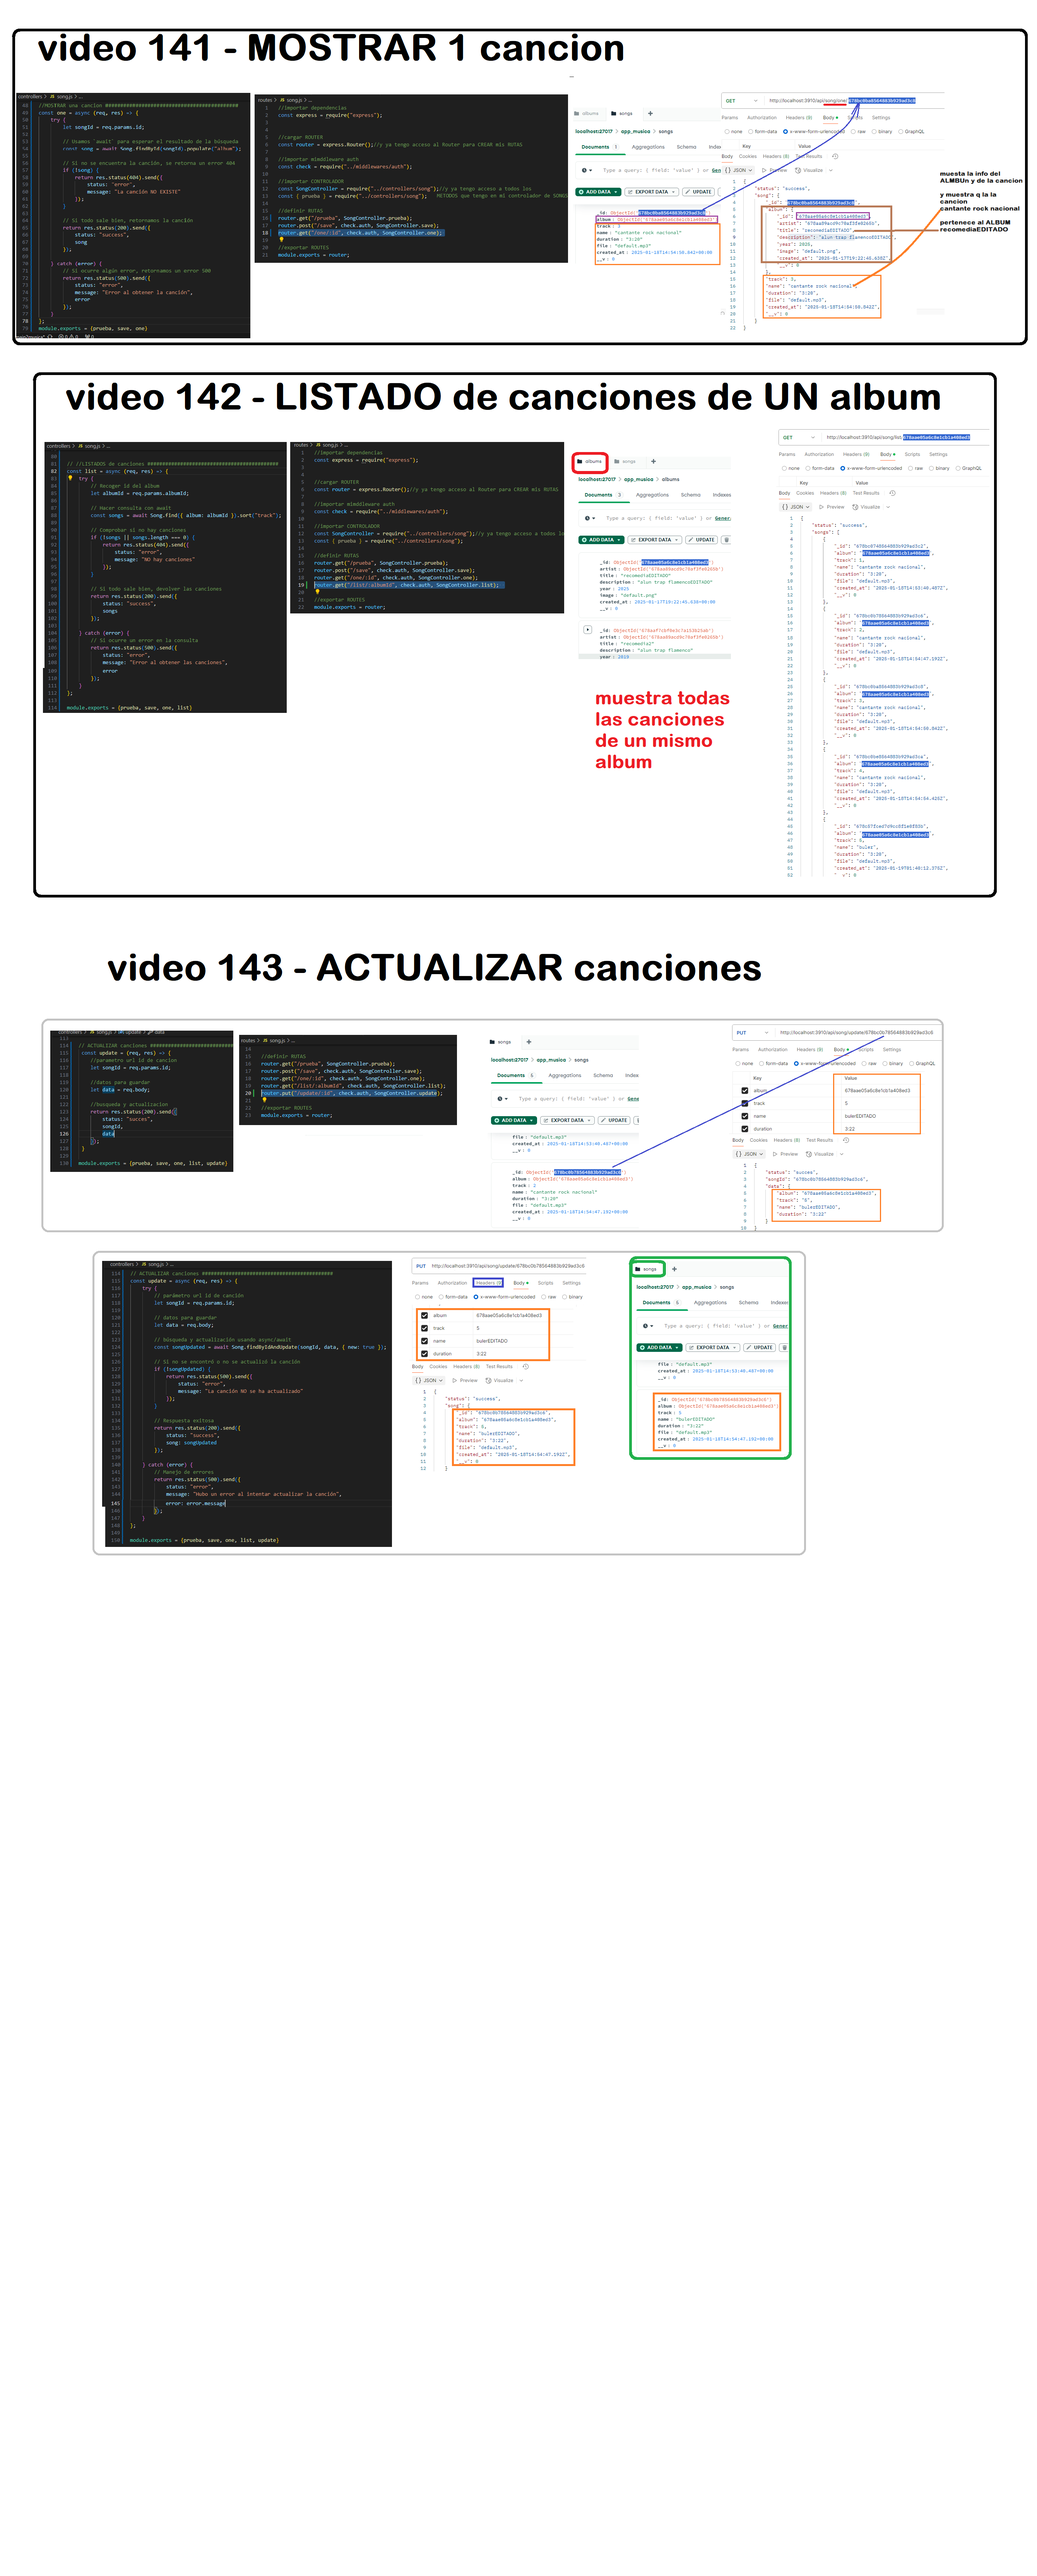
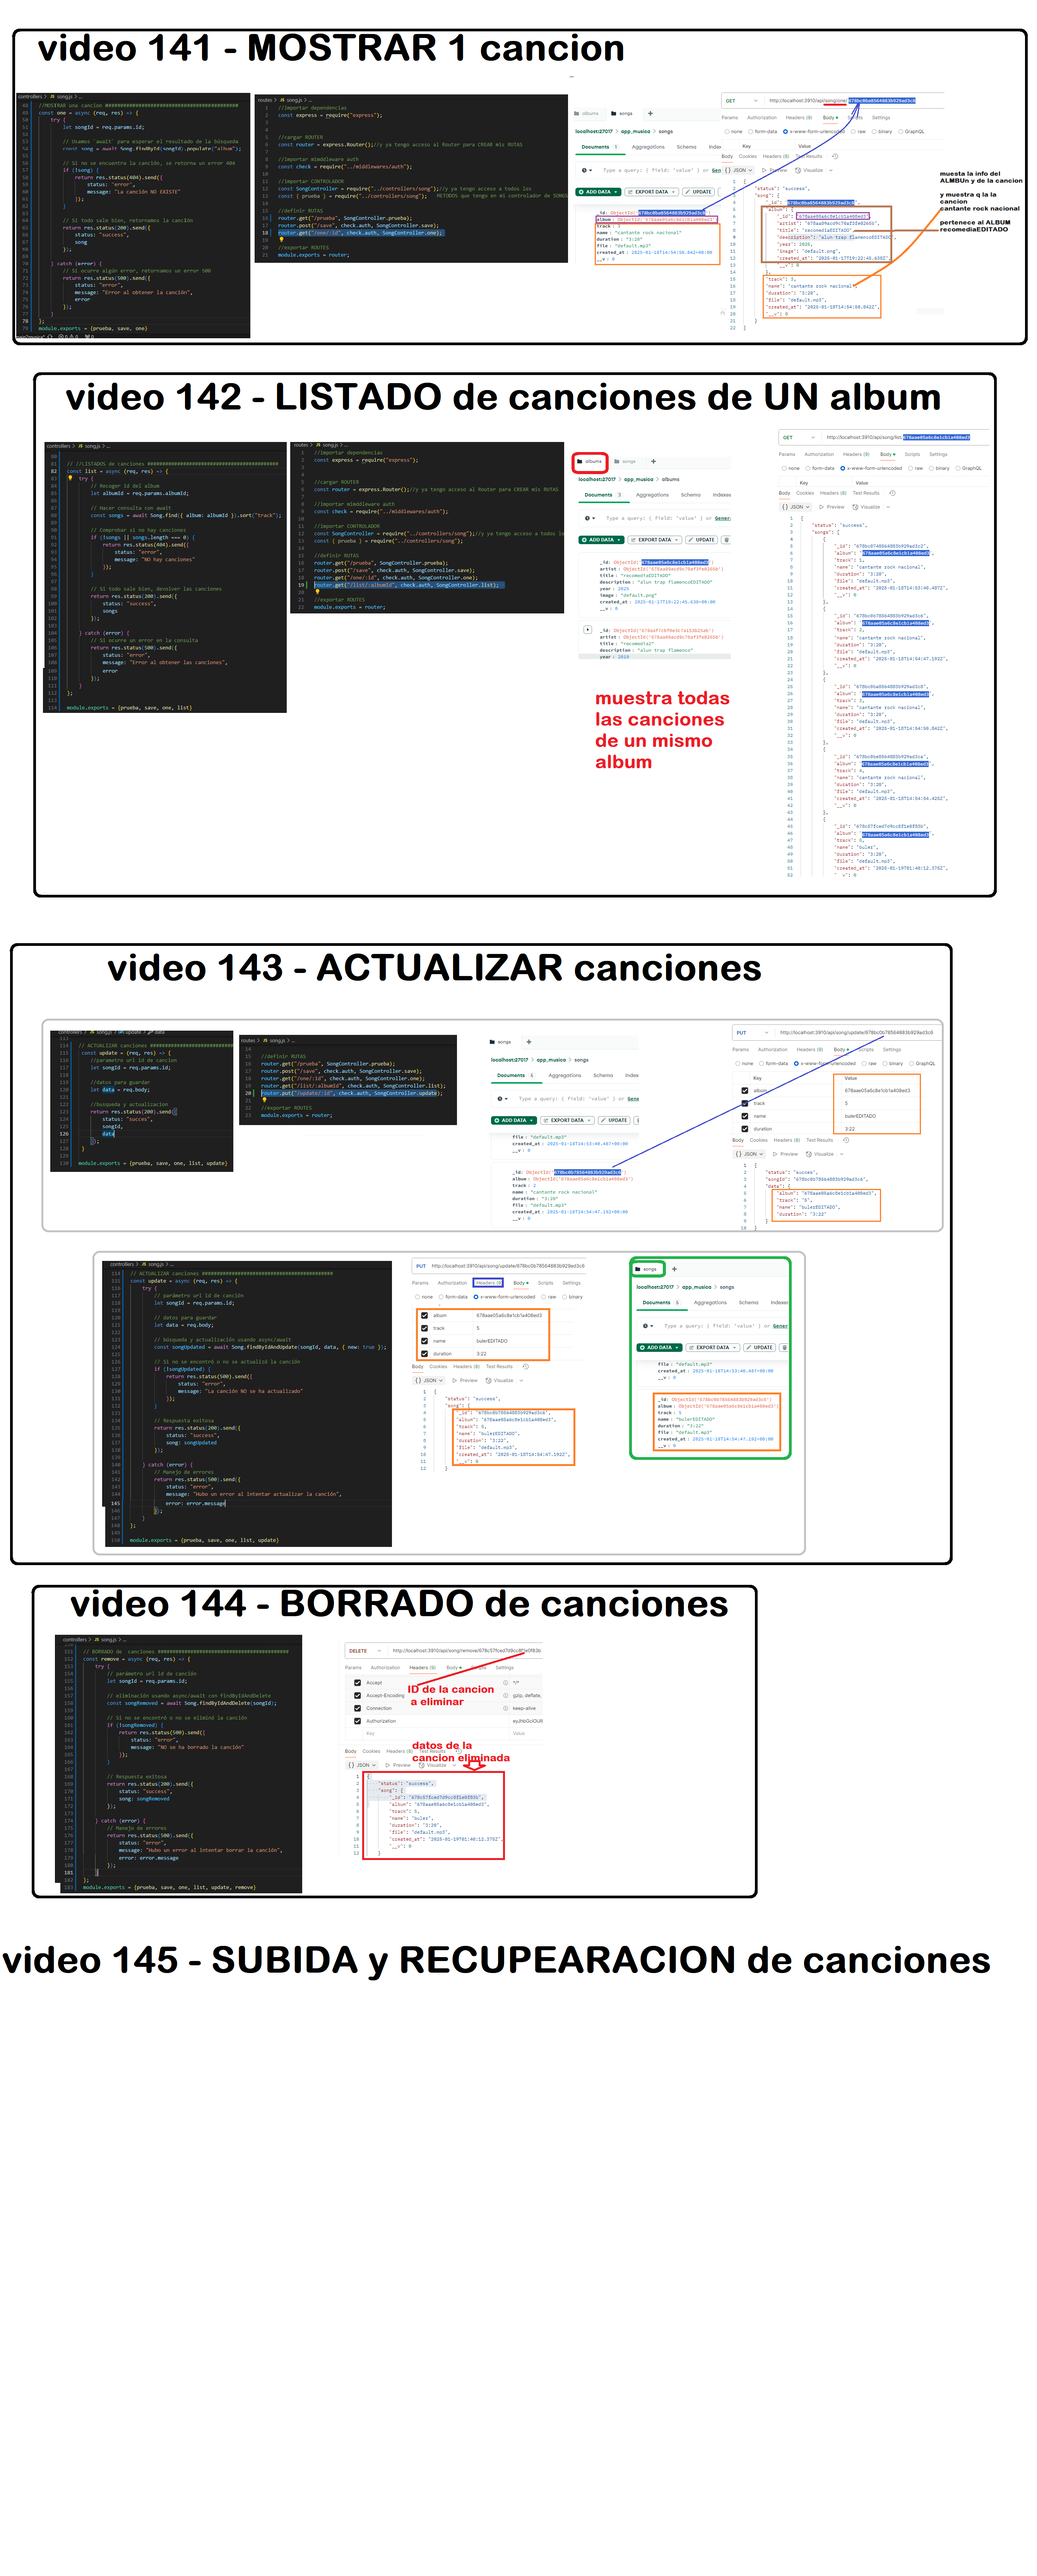
37° V.144 BORRADO de canciones

Changed region(s): [[0.0, 0.5938, 0.9601, 0.7812]]

diff --git a/controllers/song.js b/controllers/song.js
@@ -147,4 +147,37 @@ const update = async (req, res) => {
     }
 };
 
-module.exports = {prueba, save, one, list, update}
+
+// BORRADO de  canciones ############################################
+const remove = async (req, res) => {
+    try {
+        // parámetro url id de canción
+        let songId = req.params.id;
+
+        // eliminación usando async/await con findByIdAndDelete
+        const songRemoved = await Song.findByIdAndDelete(songId);
+
+        // Si no se encontró o no se eliminó la canción
+        if (!songRemoved) {
+            return res.status(500).send({
+                status: "error",
+                message: "NO se ha borrado la canción"
+            });
+        }
+
+        // Respuesta exitosa
+        return res.status(200).send({
+            status: "success",
+            song: songRemoved
+        });
+
+    } catch (error) {
+        // Manejo de errores
+        return res.status(500).send({
+            status: "error",
+            message: "Hubo un error al intentar borrar la canción",
+            error: error.message
+        });
+    }
+};
+module.exports = {prueba, save, one, list, update, remove}

diff --git a/routes/song.js b/routes/song.js
@@ -18,6 +18,7 @@ router.post("/save", check.auth, SongController.save);
 router.get("/one/:id", check.auth, SongController.one);  
 router.get("/list/:albumId", check.auth, SongController.list);  
 router.put("/update/:id", check.auth, SongController.update);  
+router.delete("/remove/:id", check.auth, SongController.remove);
 
 //exportar ROUTES
 module.exports = router;
